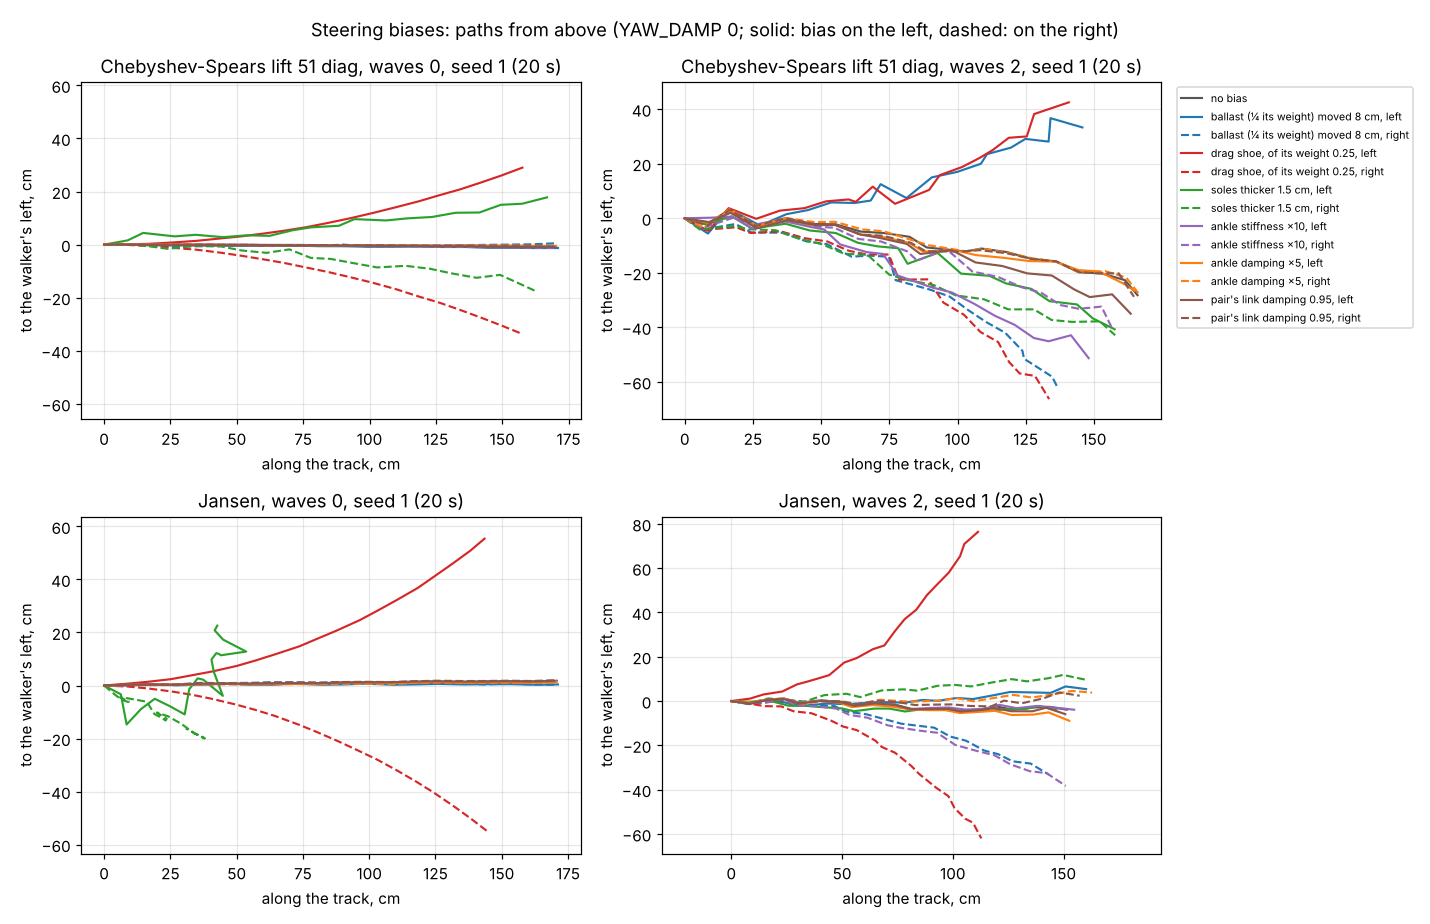
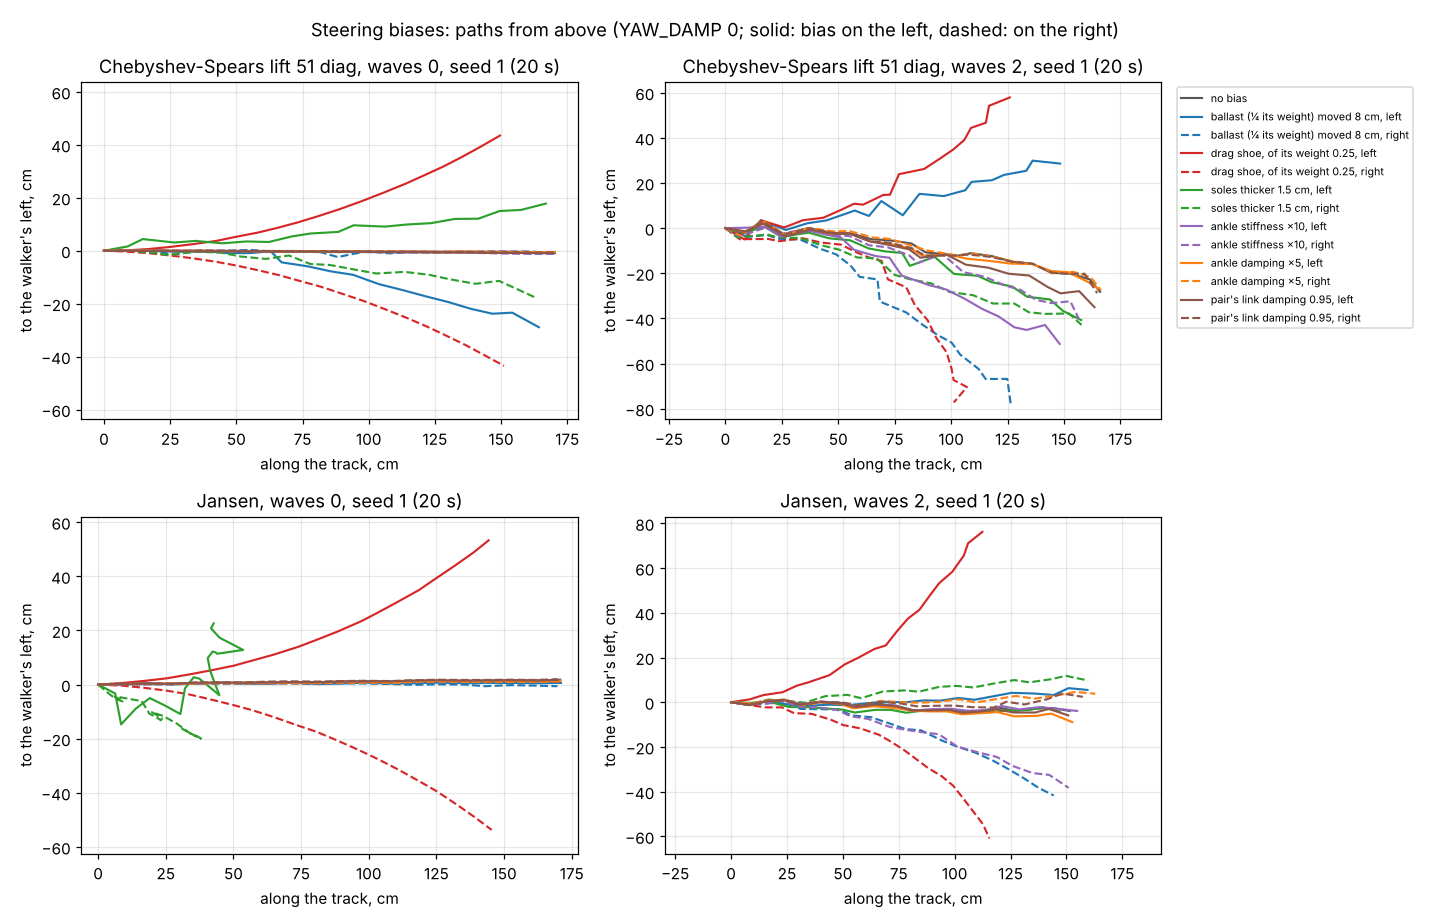
Walker room: drag-shoe.lua; the shoe's and ballast's weight from the walker's real weight
drag-shoe.lua: the drag shoe to watch. It sets the shoe and opens
test-ranking.lua, so every walker Tab brings in is a current build (outside
braces over and under the body, held pendants, no plated builds) and gets
the shoe. A launcher that names one walker and opens test-track.lua gets
walker-room.lua's old defaults for every other walker (William saw them).

steerSetup sized the shoe and the ballast before the room sets the body's
weight (SAME_BODY), from the build file's lighter body: on lift 51 diag
"0.25" was 0.18 of its weight (Jansen's was right). Now from w.totalMass.
The shoe and ballast cells rerun: at a quarter of its weight the shoe turns
lift 51 diag 1.5 deg/s each way on flat (was 1.0), Jansen 1.9.
handover/STEERING.md: the corrected rows and a note on launchers;
steer_paths2.png redrawn. Standard runs unchanged (STEER off).

Claude-Session: https://claude.ai/code/session_01CmKshxcPsY1jifGtfuYpg2

diff --git a/demo/WyomingWill/WalkerRoom/handover/STEERING.md b/demo/WyomingWill/WalkerRoom/handover/STEERING.md
@@ -271,10 +271,10 @@ speed at the stronger amount, flat (no bias 8.9):
 
 | Walker | Bracing | Bias | Timing | Direction | Weaker | Stronger | Speed |
 |---|---|---|---|---|---|---|---|
-| C-S lift 51 diag | outside, held | drag shoe, 0.1 / 0.25 of its weight | trot | forward | +0.86 / +2.27 | +2.13 / +4.52 | 8.4 |
-| Jansen | own frame | drag shoe, 0.1 / 0.25 | trot | forward | +1.44 / +1.43 | +3.78 / +5.56 | 8.1–8.2 |
-| C-S lift 51 diag | outside, held | ballast moved 4 / 8 cm | trot | forward | −0.01 / +2.24 | −0.04 / +3.78 | 8.9 |
-| Jansen | own frame | ballast moved 4 / 8 cm | trot | forward | −0.01 / +0.87 | +0.02 / +1.00 | 8.9 |
+| C-S lift 51 diag | outside, held | drag shoe, 0.1 / 0.25 of its weight | trot | forward | +1.16 / +2.53 | +3.06 / +6.05 | 8.2–8.3 |
+| Jansen | own frame | drag shoe, 0.1 / 0.25 | trot | forward | +1.43 / +1.25 | +3.70 / +6.14 | 8.1–8.2 |
+| C-S lift 51 diag | outside, held | ballast moved 4 / 8 cm | trot | forward | −0.02 / +2.49 | −0.52 / +2.06 | 8.9 |
+| Jansen | own frame | ballast moved 4 / 8 cm | trot | forward | +0.01 / +0.35 | +0.03 / +1.59 | 8.9 |
 | C-S lift 51 diag | outside, held | soles 0.5 / 1.5 cm thicker | trot | forward | +0.68 / +0.99 | +0.81 / −0.31 | 8.7–8.9 |
 | Jansen | own frame | soles 0.5 / 1.5 cm thicker | trot | forward | +1.19 / +0.77 | +8.76 / +0.40 | 1.6–2.7 |
 | both | | ankle stiffness ×3 / ×10 | trot | forward | ±0.02 / within noise | ±0.01 / within noise | 8.9 |
@@ -283,13 +283,19 @@ speed at the stronger amount, flat (no bias 8.9):
 
 - **The drag shoe steers.** Both walkers turn toward the shoe, on flat
   and on waves 2, in clean arcs, with the seeds agreeing (±0.0–0.3 °/s).
-  At a quarter of the walker's weight: about 1 °/s each way on lift 51
-  diag and 2 °/s on Jansen on flat, more on waves; speed falls 5–9 %
-  (flat) to 10–15 % (waves). The braces don't matter to it. It is the
-  best lever so far.
+  At a quarter of the walker's weight: about 1.5 °/s each way on lift 51
+  diag and 1.9 °/s on Jansen on flat, about twice that on waves; speed
+  falls 7–9 % (flat) to 15–20 % (waves). The braces don't matter to it.
+  It is the best lever so far.
 - **The ballast** does nothing on flat (the feet grip regardless of
-  load) and turns toward the ballast on waves 2 (lift 51 diag up to
-  +1.0 against −2.7 °/s), where the feet slip.
+  load; lift 51 diag's −0.52 at 8 cm is one seed, rocked to 19.5° tilt,
+  the other 0.02) and turns toward the ballast on waves 2, where the
+  feet slip.
+- **Corrected 8 November, evening:** the shoe and the ballast were first
+  sized before the room sets the body's weight (`SAME_BODY`), from the
+  build file's own lighter body: on lift 51 diag "0.25" was 0.18 of its
+  weight (Jansen's was right, 34.4 against 34.0 g). Fixed in
+  `steerSetup`; the shoe and ballast rows above are the rerun.
 - **Thicker soles** are erratic: lift 51 diag jolts now and then (body
   1–3° off level, then 19° for a moment in a traced run, cause not
   pinned down); Jansen at 1.5 cm rocks onto the thick side (8–14°) and
@@ -306,3 +312,22 @@ speed at the stronger amount, flat (no bias 8.9):
 
 For heading feedback (stage 4), a shoe on each side, lowered on the side
 to turn toward, is the obvious candidate.
+
+## Watching: the launcher must start from test-ranking.lua (8 November)
+
+`walker-room.lua`'s own defaults are the old builds: the plated walkers
+with their side plates, the diag builds with the old braces (both over
+the body, high). The current ones need `DIAG_OUTSIDE = true` and the held
+pendants for every diag build, and no guides builds. A launcher that
+names one walker and then opens `test-track.lua` gets old builds as soon
+as Tab brings in another (William saw this). Start from
+`test-ranking.lua` instead (its `VIEWS`: the 11 buildable builds, set up
+as now; `VIEW` picks the first), as `drag-shoe.lua` (8 November) does:
+
+    VIEW = 7; YAW_DAMP = 0; ARENA_Z = 800
+    STEER = { mech = "drag", side = "L", amount = 0.25 }
+    dofile("test-ranking.lua")
+
+(`ARENA_Z = 800`: test-ranking's fast setting makes the strip 3 m wide,
+and a curving walker reaches its wall.) `run-table.sh` sets each build's
+bracing itself, so the tables were right.
